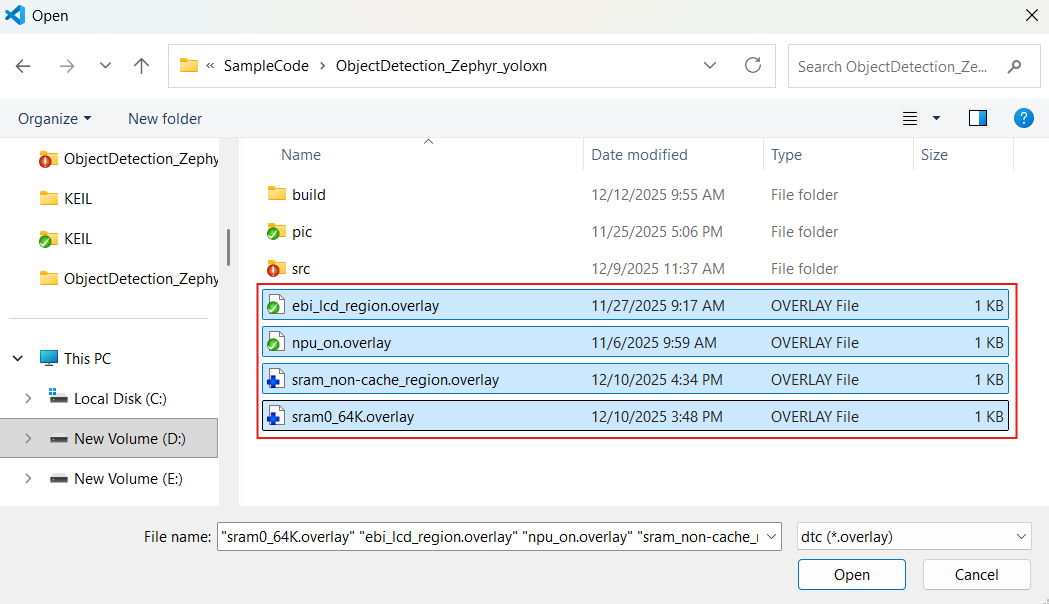
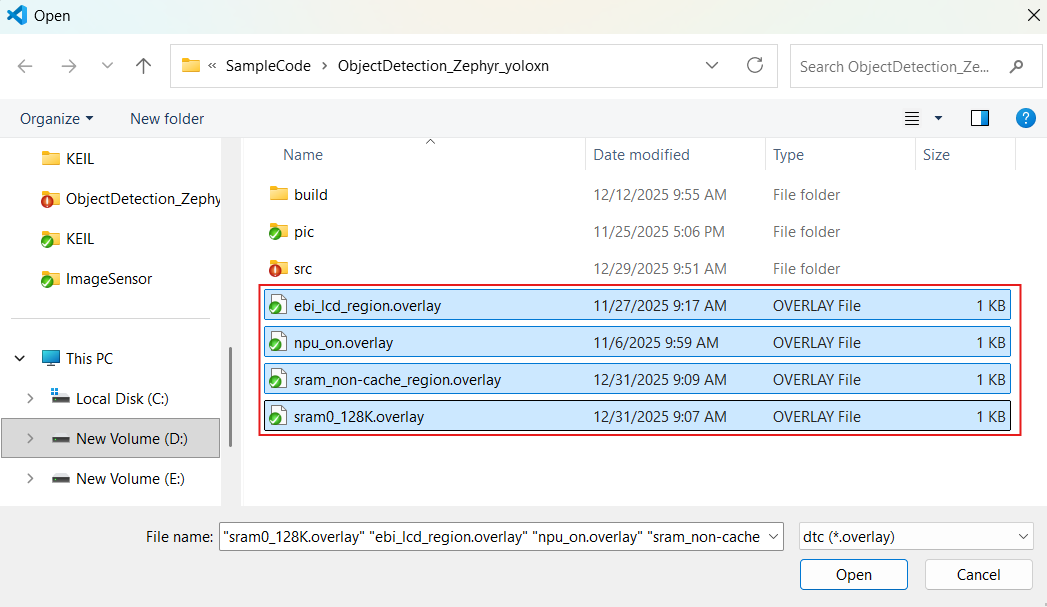
Support formatted object detection message over UART

diff --git a/ZephyrSamples/SampleCode/ObjectDetection_Zephyr_yoloxn/src/main.cpp b/ZephyrSamples/SampleCode/ObjectDetection_Zephyr_yoloxn/src/main.cpp
@@ -4,7 +4,7 @@
  * @brief    YOLOX-nano network inference sample. Demonstrate object detection.
  *
  * @copyright SPDX-License-Identifier: Apache-2.0
- * @copyright Copyright (C) 2024 Nuvoton Technology Corp. All rights reserved.
+ * @copyright Copyright (C) 2026 Nuvoton Technology Corp. All rights reserved.
  ******************************************************************************/
 
 /****************************************************************************
@@ -106,7 +106,8 @@ typedef struct
     std::vector<arm::app::object_detection::DetectionResult> results;
 } S_FRAMEBUF;
 
-LOG_MODULE_REGISTER(main, LOG_LEVEL_INF);
+//LOG_MODULE_REGISTER(main, LOG_LEVEL_INF);
+LOG_MODULE_REGISTER(, LOG_LEVEL_INF);
 
 // Frame buffer static allocation
 __attribute__((section(".bss.vram.data"), aligned(32))) static uint8_t s_au8FrameBuf0[OMV_FB_SIZE + OMV_FB_ALLOC_SIZE];
@@ -342,7 +343,7 @@ static void apply_person_track_ID(
         struct Object detObject;
         detectBox = results[b];
 
-        if(detectBox.m_cls == LABELS_PERSON_ID)
+        if(detectBox.m_cls == LABELS_PERSON_IDX)
         {
             detObject.rect.x = detectBox.m_x0;
             detObject.rect.y = detectBox.m_y0;
@@ -358,7 +359,7 @@ static void apply_person_track_ID(
     b = 0;
     while(b < results.size())
     {
-        if(results[b].m_cls == LABELS_PERSON_ID)
+        if(results[b].m_cls == LABELS_PERSON_IDX)
         {
             results.erase(results.begin() + b);
         }
@@ -385,7 +386,7 @@ static void apply_person_track_ID(
         trackBox.m_y0 = static_cast<int>(track.tlwh[1]);
         trackBox.m_w  = static_cast<int>(track.tlwh[2]);
         trackBox.m_h  = static_cast<int>(track.tlwh[3]);
-        trackBox.m_cls = LABELS_PERSON_ID;
+        trackBox.m_cls = LABELS_PERSON_IDX;
         trackBox.m_normalisedVal = track.score;
         trackBox.m_trackID = track.track_id;
         results.push_back(trackBox);
@@ -406,21 +407,45 @@ static void DrawImageDetectionBoxes(
     }
 }
 
-static bool PresentInferenceResult(const std::vector<arm::app::object_detection::DetectionResult> &results,
+static uint8_t IDMapping(int cls, int track_id)
+{
+    //currently no mapping, direct use model class ID
+    if(cls == LABELS_PERSON_IDX)
+        return (uint8_t)(track_id % 128);
+
+    return (uint8_t)(cls | 0x80);
+}
+
+static void PresentInferenceResult(const std::vector<arm::app::object_detection::DetectionResult> &results,
                                    std::vector<std::string> &labels)
 {
     /* If profiling is enabled, and the time is valid. */
     //LOG_INF("Final results: %d detected objects", results.size());
+    uint32_t objNum = results.size();
 
-    for (uint32_t i = 0; i < results.size(); ++i)
+    if(objNum == 0)
+        return;
+
+#if !defined(__FORMATTED_OD_MESSAGE__)
+    for (uint32_t i = 0; i < objNum; ++i)
     {
         LOG_INF("%" PRIu32 ") %s(%f) %s {x=%d,y=%d,w=%d,h=%d, id=%d}", i,
              labels[results[i].m_cls].c_str(),
              results[i].m_normalisedVal, "Box:",
              results[i].m_x0, results[i].m_y0, results[i].m_w, results[i].m_h, results[i].m_trackID);
     }
+#else
 
-    return true;
+    LOG_INF("[AA][DD][0 0 0 0][55][CC]");   //Detected objects message 
+
+    for (uint32_t i = 0; i < objNum; ++i)
+    {
+        LOG_INF("[AA][%02X][%d %d %d %d][55][CC]", IDMapping(results[i].m_cls, results[i].m_trackID),
+             results[i].m_x0, results[i].m_y0, results[i].m_w, results[i].m_h);
+    }
+
+    LOG_INF("[AA][FF][0 0 0 0][55][CC]"); //End of detected objects message
+#endif
 }
 
 // Resize source image to model input tensor size
@@ -620,8 +645,13 @@ void main_task(void *pvArgs1, void *pvArgs2, void *pvArgs3)
     uint64_t u64PerfCycle;
     uint64_t u64PerfFrames = 0;
 
+#if defined(__FORMATTED_OD_MESSAGE__)
+    #define EACH_EMPTY_MSG_SEC 1
+    uint64_t u64EmptyObjMsgCycle = UINT64_MAX;
+#endif
+
     u64PerfCycle = pmu_get_systick_Count();
-    u64PerfCycle += (k_sec_to_cyc_floor32(1) * EACH_PERF_SEC);
+    u64PerfCycle += (k_sec_to_cyc_floor32(EACH_PERF_SEC));
 
     S_FRAMEBUF *infFramebuf;
     S_FRAMEBUF *fullFramebuf;
@@ -787,11 +817,28 @@ void main_task(void *pvArgs1, void *pvArgs2, void *pvArgs3)
 
             if ((uint64_t) pmu_get_systick_Count() > u64PerfCycle)
             {
+
+#if !defined(__FORMATTED_OD_MESSAGE__)
                 LOG_INF("Total inference rate: %llu", u64PerfFrames / EACH_PERF_SEC);
-                u64PerfCycle = (uint64_t)pmu_get_systick_Count() + (uint64_t)(k_sec_to_cyc_floor32(1) * EACH_PERF_SEC);
+#endif
+                u64PerfCycle = (uint64_t)pmu_get_systick_Count() + (uint64_t)(k_sec_to_cyc_floor32(EACH_PERF_SEC));
                 u64PerfFrames = 0;
             }
 
+#if defined(__FORMATTED_OD_MESSAGE__)
+            if(infFramebuf->results.size() == 0)
+            {
+                if((pmu_get_systick_Count() > u64EmptyObjMsgCycle) || (u64EmptyObjMsgCycle == UINT64_MAX))
+                {
+                    LOG_INF("[AA][EE][0 0 0 0][55][CC]"); // No detected objects message
+                    u64EmptyObjMsgCycle = pmu_get_systick_Count() + (uint64_t)(k_sec_to_cyc_floor32(EACH_EMPTY_MSG_SEC));
+                }
+            }
+            else
+            {
+                u64EmptyObjMsgCycle = UINT64_MAX;
+            }
+#endif
             PresentInferenceResult(infFramebuf->results, labels);
             infFramebuf->eState = eFRAMEBUF_EMPTY;
         }

diff --git a/ZephyrSamples/SampleCode/ObjectDetection_Zephyr_yoloxn/src/Model/include/Labels.hpp b/ZephyrSamples/SampleCode/ObjectDetection_Zephyr_yoloxn/src/Model/include/Labels.hpp
@@ -26,7 +26,7 @@
 #include <string>
 #include <vector>
 
-#define LABELS_PERSON_ID (11)
+#define LABELS_PERSON_IDX (11)
 
 /**
  * @brief       Gets the label vector corresponding to the model

diff --git a/ZephyrSamples/SampleCode/ObjectDetection_Zephyr_yoloxn/README.md b/ZephyrSamples/SampleCode/ObjectDetection_Zephyr_yoloxn/README.md
@@ -13,6 +13,7 @@ Key Features:
     - Captures images from an HM1055 image sensor via CCAP (Camera Capture).
     - Resizes images to the model's input dimensions (RGB565 → RGB888) for non-preview case.
     - Quantizes data for efficient model inference.
+    - BYTETracker for person tracking across frames.
     - Draws bounding boxes on detected objects.
 4. Multi-threaded Architecture:
     - Main task: Handles image capture and display.
@@ -20,9 +21,10 @@ Key Features:
     - Uses Zephyr message queues for thread synchronization.
 5. Optional Features:
     - UVC (USB Video Class): Preview result image over USB.
-    - SD Card Support: Load the model from SD card instead of embedding it.
+    - SD card Support: Load the model from SD card instead of embedding it.
     - Profiling: Performance monitoring and cycle counting.
     - LCD display: Preview result image over LCD.
+    - Formatted object detection message: Output structured detection result message over UART.
 
 Software Stack:
 - TensorFlow Lite Micro with CMSIS-NN optimization.
@@ -57,9 +59,9 @@ This sample demonstrates the regions of the M55M1 memory in the following:
 
 | Region | Address | Size | Memory Type | Data Context | DTC Overlay | Memory Attribute |
 |:----|:----|:----|:----|:----|:----|:----| 
-|RAM|0x20100000|64KB|Part of SRAM0|Kernel read-write data|sram0_64K.overlay|DT_MEM_ARM_MPU_RAM|
+|RAM|0x20100000|128KB|Part of SRAM0|Kernel read-write data|sram0_64K.overlay|DT_MEM_ARM_MPU_RAM|
 |DTCM|0x20000000|128KB|DTCM|System heap and stack||DT_MEM_ARM_MPU_RAM|
-|SRAM_NON_CACHE|0x20110000|1280KB|Part of SRAM0, SRAM1 and SRAM2|Model arena cache and image buffer|sram_non-cache_region.overlay|DT_MEM_ARM_MPU_RAM_NOCACHE|
+|SRAM_NON_CACHE|0x20110000|1216KB|Part of SRAM0, SRAM1 and SRAM2|Model arena cache and image buffer|sram_non-cache_region.overlay|DT_MEM_ARM_MPU_RAM_NOCACHE|
 |EBI0|0x60000000|1024KB|EBI0|MPU-type LCD device|ebi_lcd_region.overlay|DT_MEM_ARM_MPU_DEVICE|
 
 ## Setup and Build ##
@@ -126,6 +128,33 @@ This sample supports the following application configurations. You can change th
 - ```CONFIG_APP_OD_UVC_SHOW_IMAGE``` (default n): Enable/disable the display of the result image over UVC connect.
 - ```CONFIG_APP_OD_MODEL_FROM_SD``` (default n): Support loading model from SD card to HyperRAM
 - ```CONFIG_APP_OD_LCD_SHOW_IMAGE``` (default n): Enable/disable the display of the result image over LCD.
+- ```CONFIG_APP_OD_FORMATTED_MESSAGE ``` (default n): Enable/disable foramtted objcet detection message.
+    - Message Header:
+    ```
+    [AA][DD][0 0 0 0][55][CC] 
+    ```
+    - For each detected objects:
+    ```
+    [AA][ID_BYTE][x y w h][55][CC]
+    where:
+        - [AA] - Message start marker
+        - [ID_BYTE] - Mapped class/track ID (2 hex digits):
+            - For person ID: 00 ~ 7F
+            - For gesture ID: 80 ~ 8A
+        - [x y w h] - Bounding box coordinates (4 decimal values)
+        - [55] - Message middle marker
+        - [CC] - Message end marker
+    ```
+    - Message Footer:
+    ```
+    [AA][FF][0 0 0 0][55][CC]
+    ```
+    - Empty Detection Message (when no objects):
+    ```
+    [AA][EE][0 0 0 0][55][CC]
+    ```
+
+
 
 ## Performance
 1. Memory usage
